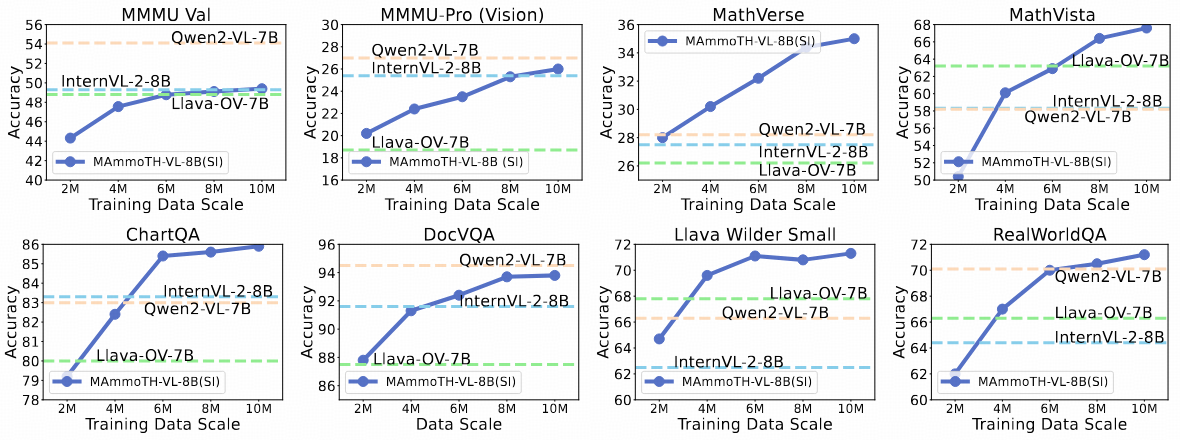
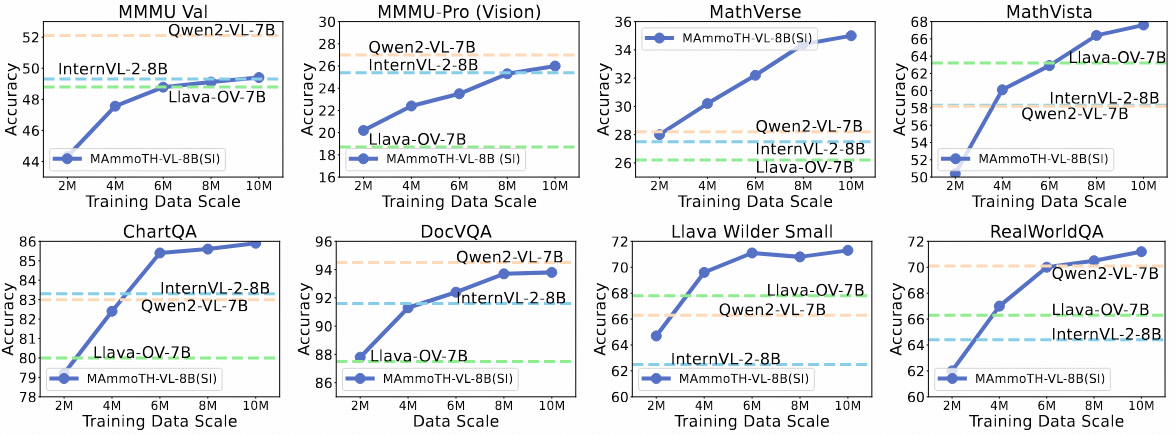
v1

diff --git a/index.html b/index.html
@@ -513,7 +513,7 @@
         <tr style="background-color: #cce0ff;">
             <td>Qwen2-VL-7B</td>
             <td style="text-align: center;">60.7</td>
-            <td style="text-align: center;">54.1</td>
+            <td style="text-align: center;">52.1</td>
             <td style="text-align: center;">26.9</td>
             <td style="text-align: center;">74.3</td>
             <td style="text-align: center;">83.0</td>
